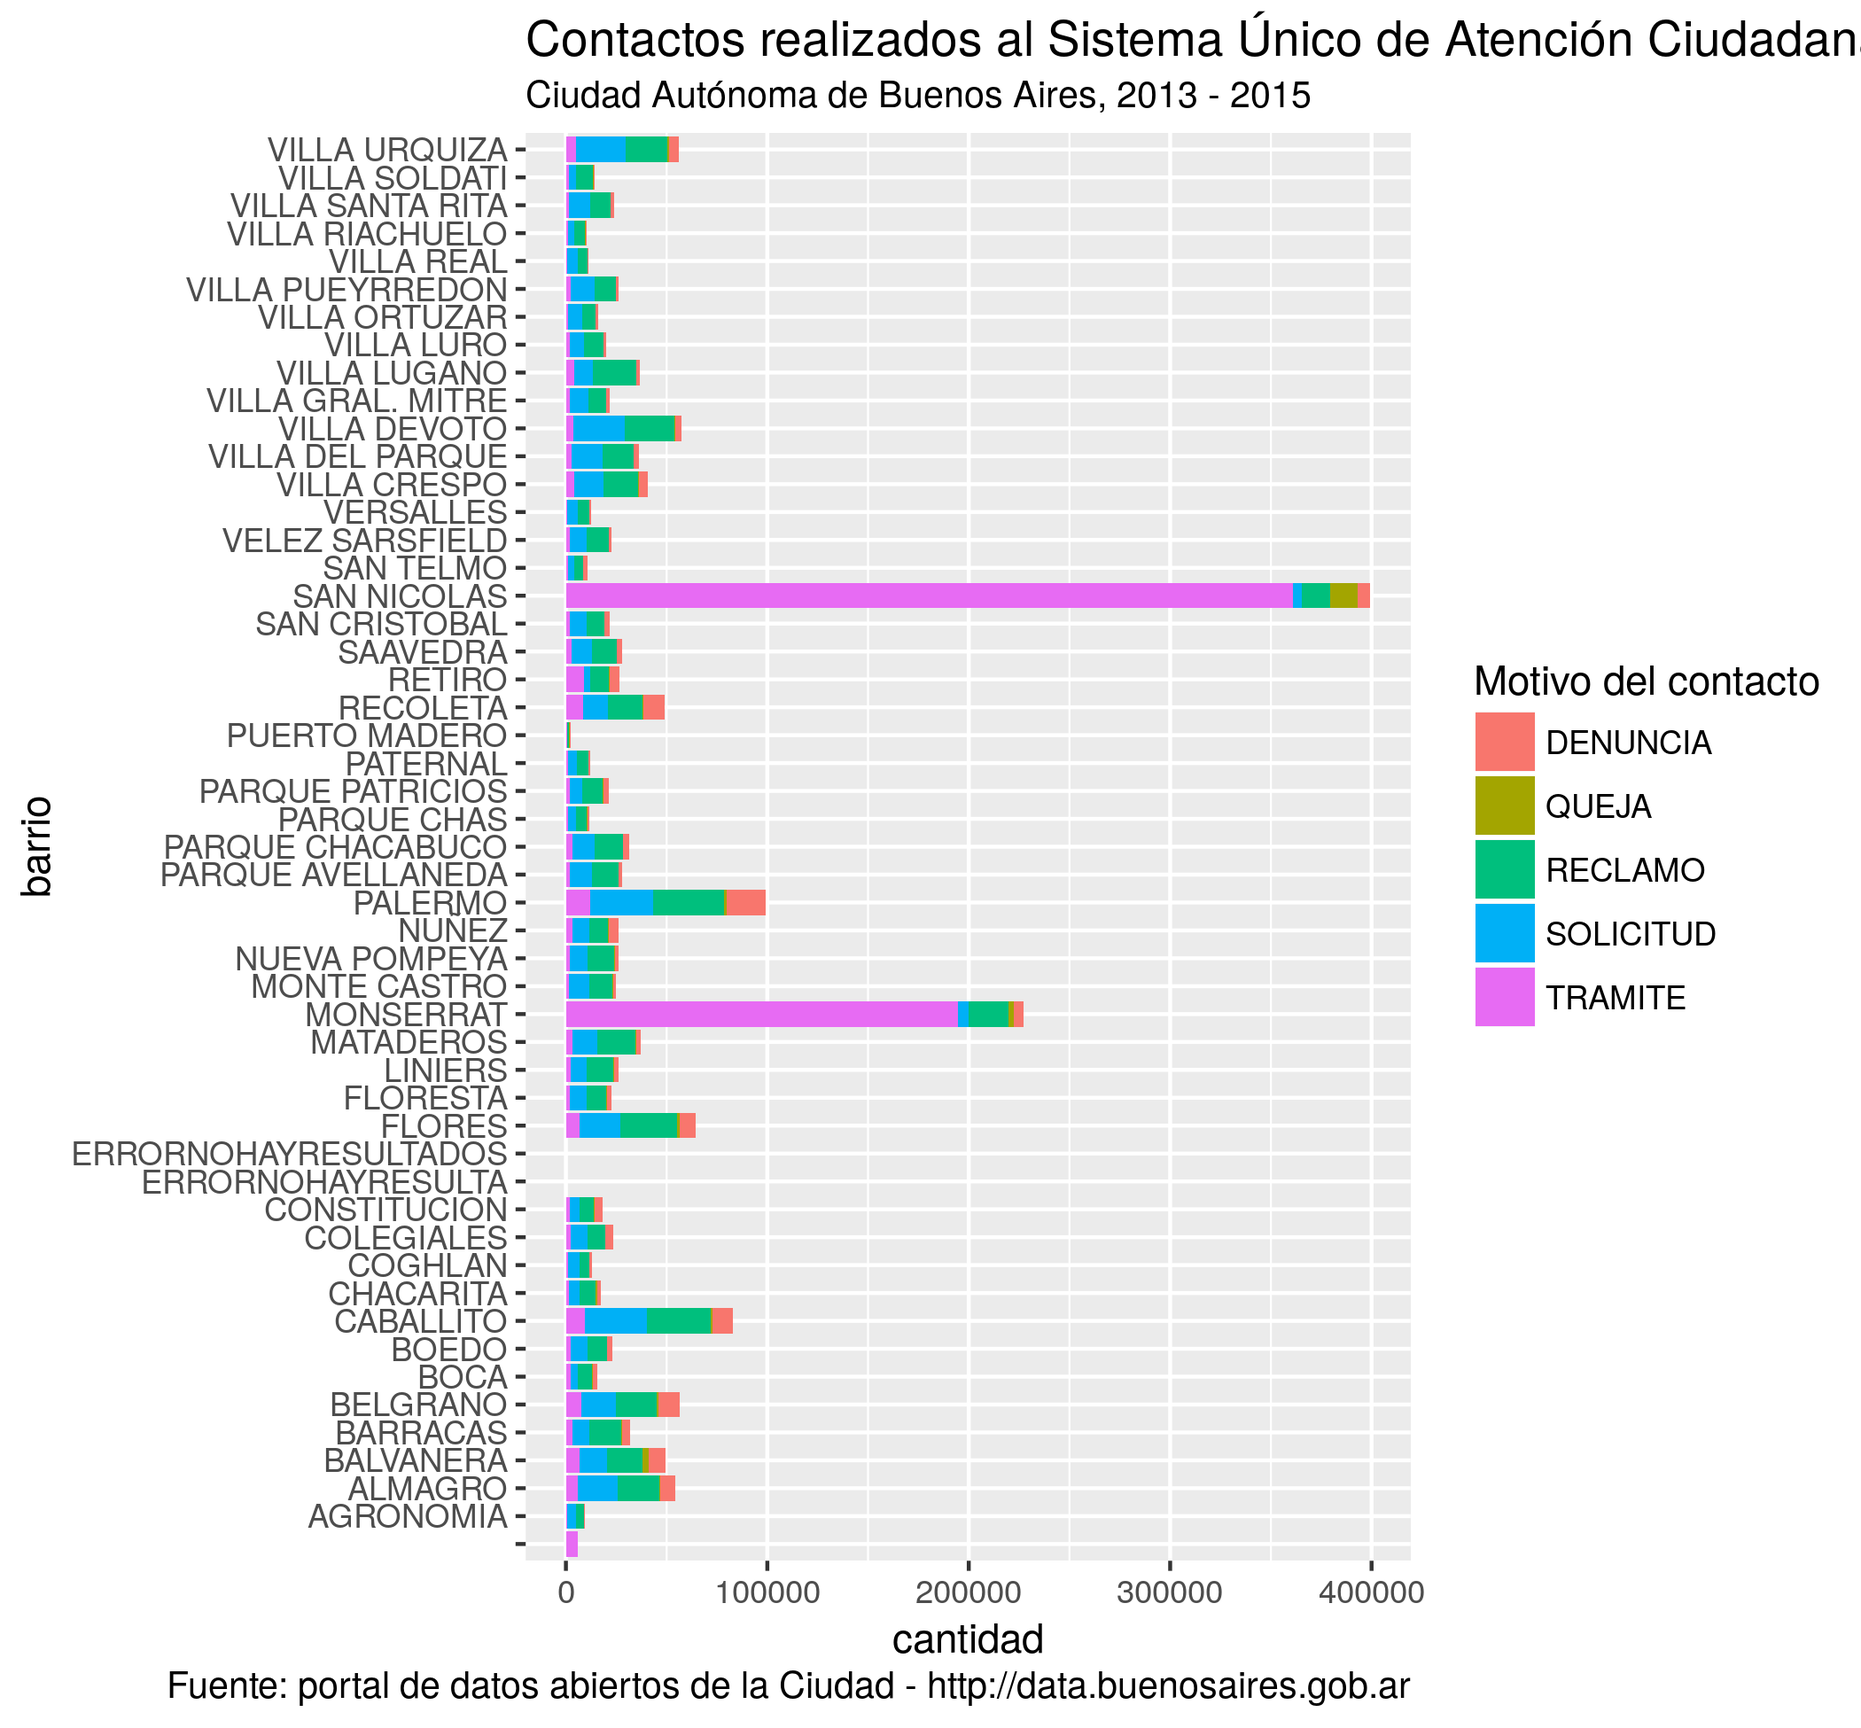
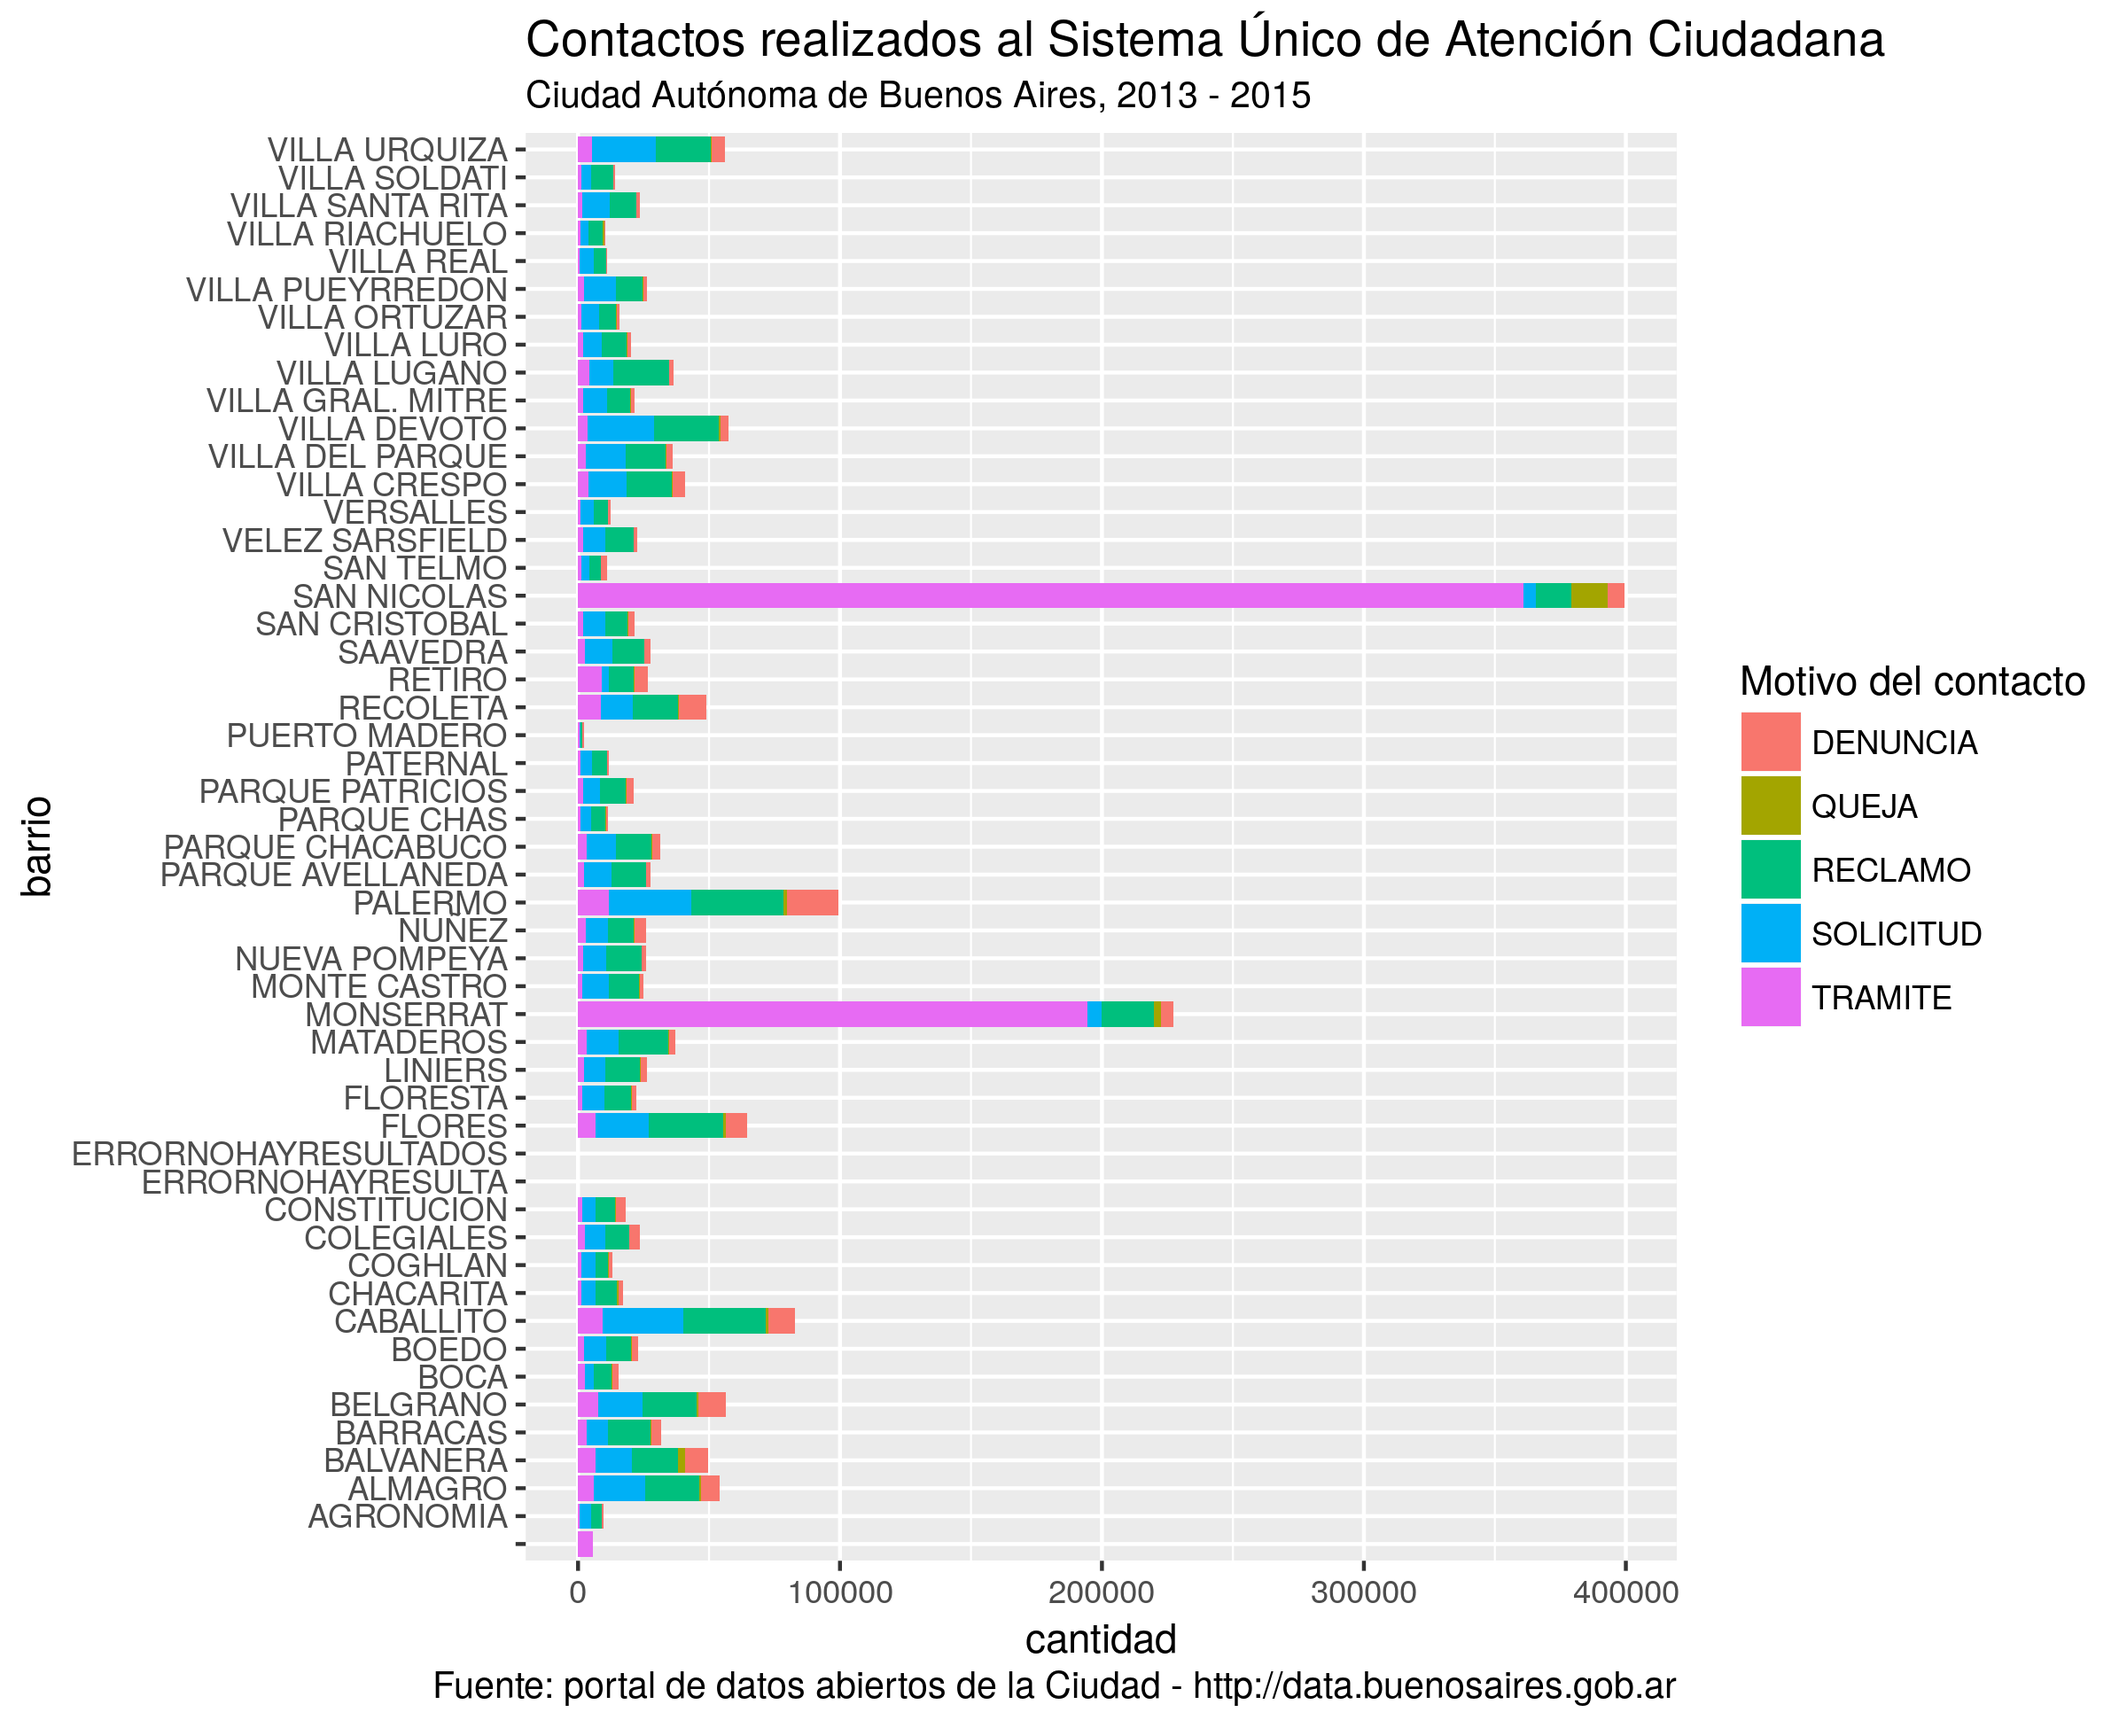
Blog update

diff --git a/ciencia_de_datos_gente_sociable/visualizacion.html b/ciencia_de_datos_gente_sociable/visualizacion.html
@@ -475,7 +475,7 @@ contactos_por_comuna</code></pre></div>
          <span class="dt">x =</span> <span class="st">&quot;barrio&quot;</span>,
          <span class="dt">y =</span> <span class="st">&quot;cantidad&quot;</span>,
          <span class="dt">fill =</span> <span class="st">&quot;Motivo del contacto&quot;</span>)</code></pre></div>
-<p><img src="ciencia_de_datos_para_gente_sociable_files/figure-html/unnamed-chunk-108-1.png" width="1050" /></p>
+<p><img src="ciencia_de_datos_para_gente_sociable_files/figure-html/unnamed-chunk-108-1.png" width="1200" /></p>
 <p>Ahora si, a compartir.</p>
 </div>
 <div id="otras-visualizaciones" class="section level2">
